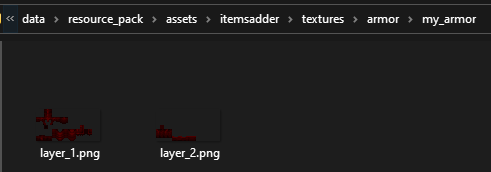
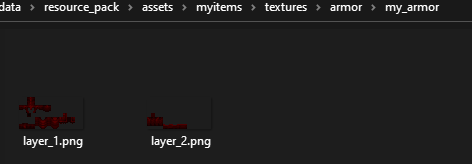
GitBook: [#403] No subject

diff --git a/SUMMARY.md b/SUMMARY.md
@@ -39,6 +39,7 @@
   * [Can I create slabs, stairs, tridents, armors...](faq/can-i-create-slabs-stairs/README.md)
     * [Create transparent textured furnitures](faq/can-i-create-slabs-stairs/transparent-textures.md)
   * [Recipes book problems](faq/recipes-book-problems.md)
+  * [Mohist problems](faq/mohist-problems.md)
   * [⛔Errors](faq/errors/README.md)
     * [NoSuchMethodError](faq/errors/nosuchmethoderror.md)
     * [Protocol error](faq/errors/protocol-error.md)
@@ -46,6 +47,7 @@
     * [Cannot retrieve entity from ID](faq/errors/cannot-retrieve-entity-from-id.md)
     * [An error occurred when enabling the resourcepack](faq/errors/an-error-occurred-when-enabling-the-resourcepack.md)
   * [Armors textures bugged](faq/armors-textures-bugged.md)
+  * [Leather armor texture overwritten](faq/leather-armor-texture-overwritten.md)
 * [📖 Plugin usage](plugin-usage/README.md)
   * [🇬🇧 🇬🇧 Languages](plugin-usage/languages.md)
   * [🖥 Commands](plugin-usage/commands/README.md)
@@ -208,6 +210,7 @@
     * [Mythicmobs](compatibility-with-other-plugins/compatible/mythicmobs.md)
     * [EcoEnchants](compatibility-with-other-plugins/compatible/ecoenchants.md)
     * [ExcellentEnchants](compatibility-with-other-plugins/compatible/excellentenchants.md)
+    * [AdvancedEnchantments](compatibility-with-other-plugins/compatible/advancedenchantments.md)
     * [BetonQuest](compatibility-with-other-plugins/compatible/betonquest.md)
     * [ChatControl-Red](compatibility-with-other-plugins/compatible/chatcontrol-red.md)
     * [BanItem](compatibility-with-other-plugins/compatible/banitem.md)
@@ -225,7 +228,7 @@
     * [ShopGUI+](compatibility-with-other-plugins/compatible/shopgui+.md)
     * [TAB](compatibility-with-other-plugins/compatible/tab.md)
 * [⚡ Optimize Minecraft client](optimize-minecraft-client/README.md)
-  * [1.18.1](optimize-minecraft-client/1.18.1.md)
+  * [1.18.1](https://blog.devs.beer/blog/optimize-minecraft)
   * [1.17.1](optimize-minecraft-client/optimize-minecraft-1.17.md)
 
 ## 💻 Developers

diff --git a/faq/mohist-problems.md b/faq/mohist-problems.md
@@ -1,0 +1,38 @@
+# Mohist problems
+
+{% hint style="warning" %}
+Note: Mohist is an unofficial mod and may break plugins.\
+I didn't code the plugin with official Mohist compatibility just because it's not something that straightforward.
+{% endhint %}
+
+```
+Caused by: java.lang.ClassNotFoundException: net.minecraft.network.play.server.SChangeGameStatePacket$a
+at java.lang.ClassLoader.findClass(Unknown Source) ~[?:1.8.0_311]
+at java.lang.ClassLoader.loadClass(Unknown Source) ~[?:1.8.0_311]
+at cpw.mods.modlauncher.TransformingClassLoader.loadClass(TransformingClassLoader.java:106) ~[modlauncher-8.0.9.jar:?]
+at java.lang.ClassLoader.loadClass(Unknown Source) ~[?:1.8.0_311]
+at org.bukkit.plugin.java.PluginClassLoader.findClass(PluginClassLoader.java:170) ~[forge:?]
+at org.bukkit.plugin.java.PluginClassLoader.findClass(PluginClassLoader.java:121) ~[forge:?]
+at java.lang.ClassLoader.loadClass(Unknown Source) ~[?:1.8.0_311]
+at java.lang.ClassLoader.loadClass(Unknown Source) ~[?:1.8.0_311]
+at dev.lone.itemsadder.NMS.GameModeChange.impl.v1_16_R3.b(SourceFile:20) ~[?:?]
+at dev.lone.itemsadder.NMS.GameModeChange.GameModeChange.J(SourceFile:39) ~[?:?]
+at dev.lone.itemsadder.main.gv.U(SourceFile:138) ~[?:?]
+at dev.lone.itemsadder.main.gv.f(SourceFile:184) ~[?:?]
+at sun.reflect.NativeMethodAccessorImpl.invoke0(Native Method) ~[?:1.8.0_311]
+at sun.reflect.NativeMethodAccessorImpl.invoke(Unknown Source) ~[?:1.8.0_311]
+at sun.reflect.DelegatingMethodAccessorImpl.invoke(Unknown Source) ~[?:1.8.0_311]
+at java.lang.reflect.Method.invoke(Unknown Source) ~[?:1.8.0_311]
+at org.bukkit.plugin.java.JavaPluginLoader$1.execute(JavaPluginLoader.java:315) ~[forge:?]
+... 14 more
+```
+
+## How to fix this issue
+
+Open **ProtocolLib** `config.yml` file and set this option to false.
+
+{% code title="config.yml" %}
+```yaml
+background compiler: false
+```
+{% endcode %}

diff --git a/faq/leather-armor-texture-overwritten.md b/faq/leather-armor-texture-overwritten.md
@@ -1,0 +1,24 @@
+# Leather armor texture overwritten
+
+## Leather layers keep getting overwritten by ItemsAdder
+
+![](<../.gitbook/assets/image (45).png>)
+
+ItemsAdder automatically overwrites leather layers textures in order to create custom armors.\
+Custom armors are created using colored leather, but the default Minecraft leather armor texture doesn't look like a texture made of minerals.
+
+In some servers you might not need this feature at all and you could prefer to have the vanilla leather armor layers texture instead, or use your own custom one.
+
+## How to disable this?
+
+{% hint style="warning" %}
+This requires ItemsAdder 2.5.2+
+{% endhint %}
+
+To disable this you just have to set this option in config.yml of ItemsAdder and run `/iazip` again (then [host the pack](../plugin-usage/resourcepack-hosting/) if needed).
+
+{% code title="config.yml" %}
+```yaml
+disable-overwrite-leather-armor-layers-textures: true
+```
+{% endcode %}

diff --git a/compatibility-with-other-plugins/compatible/advancedenchantments.md b/compatibility-with-other-plugins/compatible/advancedenchantments.md
@@ -1,0 +1,27 @@
+# AdvancedEnchantments
+
+## [Download here](https://www.spigotmc.org/resources/43058/)
+
+## How to use enchants
+
+This is an example configuration for an ItemsAdder custom item enchant.
+
+{% hint style="warning" %}
+Warning: this feature doesn't work on **AdvancedEnchantments** 8.7.29 because of a bug.\
+I already contacted the developers about this problem.
+
+This also requires **ItemsAdder** 2.5.2+
+{% endhint %}
+
+```yaml
+  ruby_pickaxe:
+    display_name: display-name-ruby_pickaxe
+    permission: ruby_pickaxe
+    resource:
+      material: DIAMOND_PICKAXE
+      generate: true
+      textures:
+      - item/ruby_pickaxe.png
+    enchants:
+    - ambit:7
+```

diff --git a/plugin-usage/adding-content/beginners/creating-a-custom-item/armor/texture.md b/plugin-usage/adding-content/beginners/creating-a-custom-item/armor/texture.md
@@ -59,7 +59,7 @@ You must decide a color! Even if the armor won't be colored. The color is like a
 
 Now I create the two PNG files inside the `data/resource_pack/assets/myitems/textures/armor/my_armor/` folder.
 
-![](<../../../../../.gitbook/assets/image (45) (1).png>)
+![](<../../../../../.gitbook/assets/image (45) (1) (1).png>)
 
 {% hint style="info" %}
 ### HD armor textures
